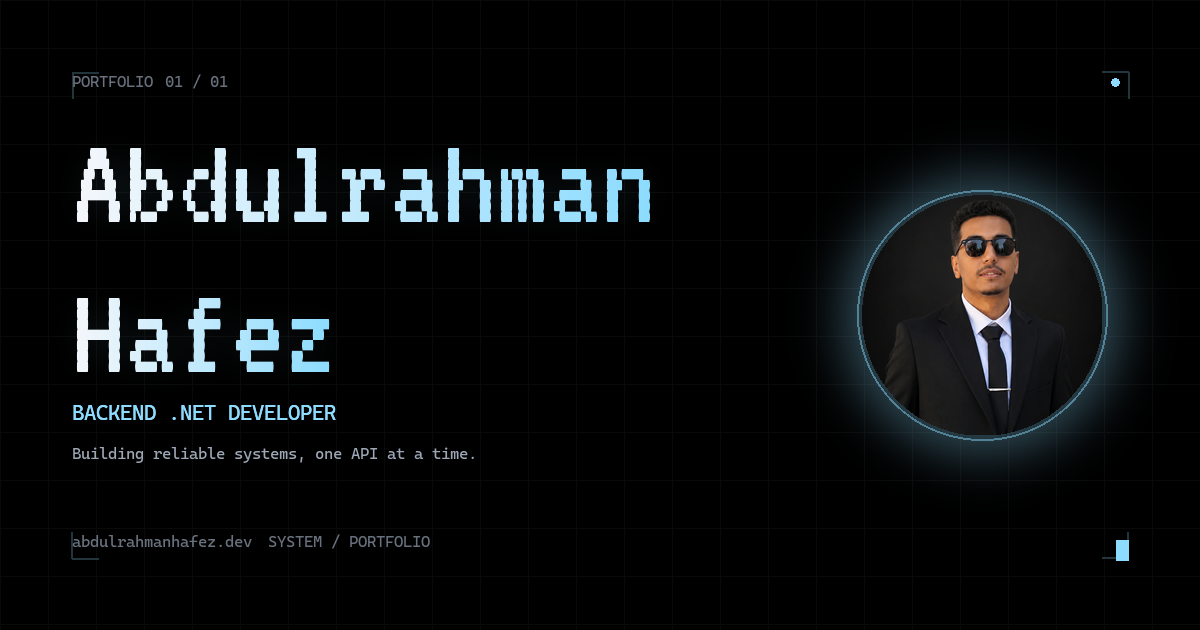
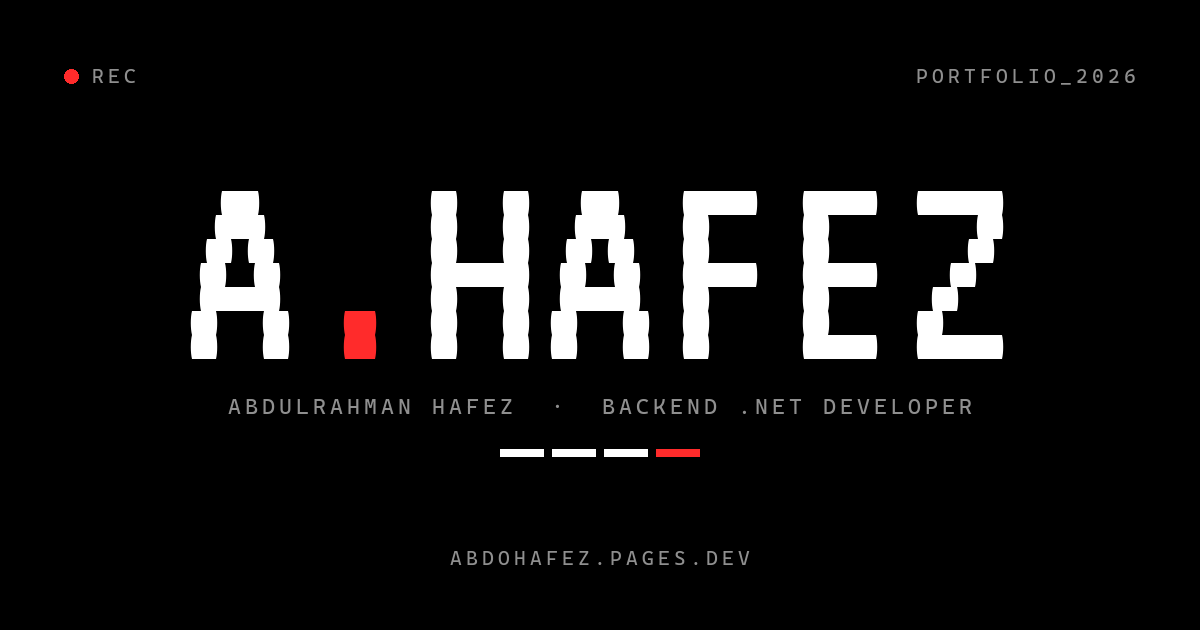
feat: Signal minimal social preview image
Centered A.HAFEZ wordmark with a red dot in the Pure signal palette,
correct production domain, and a center-safe layout for square crops.
Regenerated by scripts/generate-og-image.py (144 KB -> 18 KB).

diff --git a/scripts/generate-og-image.py b/scripts/generate-og-image.py
@@ -1,278 +1,125 @@
 """
 Generate public/og-image.png — a 1200x630 social preview card.
 
-Design follows the portfolio's "Retro Digital Interface" language:
-- Pure black background with a subtle 48px grid (white ~4% opacity)
-- VT323 dot-matrix typography for the name
-- Large display name with a white -> cyan horizontal gradient (matching --color-accent: #8ddcff)
-- Mono uppercase labels for the terminal feel
-- Circular profile picture (face-centered crop) with a soft cyan glow ring
+Design: "Signal minimal" from the Pure signal palette (black, white, one red).
+- Pure black background
+- Centered VT323 wordmark "A.HAFEZ" with the dot in signal red
+- Mono uppercase labels (rec indicator, role line, domain)
+- Everything important sits in the center so square crops (WhatsApp,
+  Slack, X thumbnails) still show the name
+
+Run from the repo root:  python scripts/generate-og-image.py
 """
 
-from PIL import Image, ImageDraw, ImageFont, ImageFilter
+from PIL import Image, ImageDraw, ImageFont
 
 # ---------------------------------------------------------------------------
 # Config
 # ---------------------------------------------------------------------------
 WIDTH, HEIGHT = 1200, 630
-BG = (0, 0, 0, 255)
-ACCENT = "#8ddcff"
-WHITE = "#f4f7fb"
-TEXT_SECONDARY = "#9da7b5"
-TEXT_MUTED = "#68717d"
+BG = "#000000"
+WHITE = "#ffffff"
+MUTED = "#8f8f8f"
+RED = "#ff2b2b"
 
-MARGIN = 72
-GRID = 48
+MARGIN = 64
 
 VT323_PATH = "scripts/VT323-Regular.ttf"
 MONO_PATH = r"C:\Windows\Fonts\CascadiaMono.ttf"
-PROFILE_PATH = "public/profile-picture.png"
 
 OUT_PATH = "public/og-image.png"
 
-
-def rgb_hex(hex_str: str):
-    hex_str = hex_str.lstrip("#")
-    return tuple(int(hex_str[i : i + 2], 16) for i in (0, 2, 4))
+WORDMARK = [("A", WHITE), (".", RED), ("HAFEZ", WHITE)]
+ROLE_LINE = "ABDULRAHMAN HAFEZ  ·  BACKEND .NET DEVELOPER"
+DOMAIN = "ABDOHAFEZ.PAGES.DEV"
 
 
 def font(path: str, size: int) -> ImageFont.FreeTypeFont:
     return ImageFont.truetype(path, size)
 
 
-def text_width(draw: ImageDraw.ImageDraw, text: str, f: ImageFont.FreeTypeFont) -> int:
-    bbox = draw.textbbox((0, 0), text, font=f)
-    return bbox[2] - bbox[0]
+def tracked_width(draw: ImageDraw.ImageDraw, text: str, f, tracking: int) -> int:
+    widths = [draw.textlength(ch, font=f) for ch in text]
+    return int(sum(widths) + tracking * (len(text) - 1))
 
 
-def render_text_measure(image: Image.Image, draw: ImageDraw.ImageDraw, xy, text, f: ImageFont.FreeTypeFont, fill):
-    """Draw monochrome text and return its ink bounding box (x0,y0,x1,y1).
-
-    Used for precise vertical layout so elements never overlap regardless of
-    per-font metrics (ascent/descent bearings differ across fonts).
-    """
+def draw_tracked(draw: ImageDraw.ImageDraw, xy, text: str, f, fill, tracking: int):
     x, y = xy
-    draw.text((x, y), text, font=f, fill=fill)
-    layer = Image.new("L", (WIDTH, HEIGHT), 0)
-    ld = ImageDraw.Draw(layer)
-    ld.text((x, y), text, font=f, fill=255)
-    bbox = layer.getbbox()
-    return bbox if bbox else (x, y, x, y)
+    for ch in text:
+        draw.text((x, y), ch, font=f, fill=fill)
+        x += draw.textlength(ch, font=f) + tracking
 
 
-def draw_gradient_text(
-    image: Image.Image,
-    draw: ImageDraw.ImageDraw,
-    xy,
-    text: str,
-    f: ImageFont.FreeTypeFont,
-    start_color,
-    end_color,
-):
-    """Render text filled with a left-to-right gradient and return ink bbox."""
-    x, y = xy
-    mask_layer = Image.new("L", (WIDTH, HEIGHT), 0)
-    mask_draw = ImageDraw.Draw(mask_layer)
-    mask_draw.text((x, y), text, font=f, fill=255)
-    bbox = mask_layer.getbbox()
-    if not bbox:
-        return None
-    bx0, by0, bx1, by1 = bbox
-    tw, th = bx1 - bx0, by1 - by0
-
-    # Horizontal gradient
-    gradient = Image.new("RGB", (tw, th))
-    gd = ImageDraw.Draw(gradient)
-    for i in range(tw):
-        t = i / max(tw - 1, 1)
-        r = int(start_color[0] + (end_color[0] - start_color[0]) * t)
-        g = int(start_color[1] + (end_color[1] - start_color[1]) * t)
-        b = int(start_color[2] + (end_color[2] - start_color[2]) * t)
-        gd.line([(i, 0), (i, th)], fill=(r, g, b))
-
-    # Mask only the text region
-    text_mask = mask_layer.crop((bx0, by0, bx1, by1))
-    text_rgba = Image.new("RGBA", (tw, th), (0, 0, 0, 0))
-    text_rgba.paste(gradient, (0, 0), text_mask)
-    image.alpha_composite(text_rgba, (bx0, by0))
-    return bbox
+def draw_label(draw, text, f, fill, tracking, *, x=None, y=0, anchor="left"):
+    width = tracked_width(draw, text, f, tracking)
+    if anchor == "center":
+        x = (WIDTH - width) // 2
+    elif anchor == "right":
+        x = WIDTH - MARGIN - width
+    draw_tracked(draw, (x, y), text, f, fill, tracking)
+    return width
 
 
-def draw_grid(draw: ImageDraw.ImageDraw):
-    # Opaque dark gray (approx 4% white) so the grid stays subtle after
-    # flattening to RGB without relying on alpha compositing.
-    for x in range(0, WIDTH, GRID):
-        draw.line([(x, 0), (x, HEIGHT)], fill=(10, 10, 10, 255))
-    for y in range(0, HEIGHT, GRID):
-        draw.line([(0, y), (WIDTH, y)], fill=(10, 10, 10, 255))
+def main():
+    image = Image.new("RGB", (WIDTH, HEIGHT), BG)
+    draw = ImageDraw.Draw(image)
+
+    label = font(MONO_PATH, 20)
+    tracking = 4
+
+    # Top-left: rec indicator
+    dot_r = 7
+    cy = MARGIN + 12
+    draw.ellipse(
+        (MARGIN, cy - dot_r, MARGIN + dot_r * 2, cy + dot_r), fill=RED
+    )
+    draw_label(draw, "REC", label, MUTED, tracking, x=MARGIN + dot_r * 2 + 14, y=MARGIN)
+
+    # Top-right: build tag
+    draw_label(draw, "PORTFOLIO_2026", label, MUTED, tracking, y=MARGIN, anchor="right")
+
+    # Center wordmark, fitted to ~70% of the width
+    target = int(WIDTH * 0.7)
+    size = 300
+    while True:
+        wordmark_font = font(VT323_PATH, size)
+        total = sum(draw.textlength(part, font=wordmark_font) for part, _ in WORDMARK)
+        if total <= target or size <= 120:
+            break
+        size -= 4
+
+    # Vertically center the ink of the wordmark, nudged up for the lines below
+    full = "".join(part for part, _ in WORDMARK)
+    top, bottom = draw.textbbox((0, 0), full, font=wordmark_font)[1::2]
+    ink_h = bottom - top
+    y = (HEIGHT - ink_h) // 2 - top - 40
+    x = (WIDTH - total) / 2
+    for part, color in WORDMARK:
+        draw.text((x, y), part, font=wordmark_font, fill=color)
+        x += draw.textlength(part, font=wordmark_font)
+
+    ink_bottom = y + bottom
+
+    # Role line
+    role_font = font(MONO_PATH, 22)
+    role_y = ink_bottom + 34
+    draw_label(draw, ROLE_LINE, role_font, MUTED, 4, y=role_y, anchor="center")
+
+    # Signal bar: three white segments and one red
+    seg_w, seg_h, gap = 44, 8, 8
+    bar_w = seg_w * 4 + gap * 3
+    bx = (WIDTH - bar_w) // 2
+    by = role_y + 56
+    for i, color in enumerate([WHITE, WHITE, WHITE, RED]):
+        x0 = bx + i * (seg_w + gap)
+        draw.rectangle((x0, by, x0 + seg_w - 1, by + seg_h - 1), fill=color)
+
+    # Bottom: domain
+    draw_label(draw, DOMAIN, label, MUTED, tracking, y=HEIGHT - MARGIN - 20, anchor="center")
+
+    image.save(OUT_PATH, optimize=True)
+    print(f"Wrote {OUT_PATH} (wordmark {size}px)")
 
 
-def circular_profile(diameter: int) -> Image.Image:
-    """Return a face-centered circular crop of the profile picture."""
-    img = Image.open(PROFILE_PATH).convert("RGBA")
-    w, h = img.size
-    side = min(w, h)
-    left = (w - side) // 2
-    # Face sits in the middle vertical band (y ~0.33-0.66 of the source).
-    # Center the square crop on that band so the face is not in the lower
-    # third of the resulting circle.
-    top = max(0, int(h * 0.5) - side // 2)
-    top = min(top, h - side)
-    img = img.crop((left, top, left + side, top + side))
-    img = img.resize((diameter, diameter), Image.LANCZOS)
-
-    mask = Image.new("L", (diameter, diameter), 0)
-    md = ImageDraw.Draw(mask)
-    md.ellipse((0, 0, diameter, diameter), fill=255)
-
-    out = Image.new("RGBA", (diameter, diameter), (0, 0, 0, 0))
-    out.paste(img, (0, 0), mask)
-    return out
-
-
-# ---------------------------------------------------------------------------
-# Build canvas
-# ---------------------------------------------------------------------------
-canvas = Image.new("RGBA", (WIDTH, HEIGHT), BG)
-draw = ImageDraw.Draw(canvas)
-
-# Background: pure black with subtle grid
-draw.rectangle((0, 0, WIDTH, HEIGHT), fill=BG)
-draw_grid(draw)
-
-VT = font(VT323_PATH, 132)
-MONO_SM = font(MONO_PATH, 16)
-MONO_MD = font(MONO_PATH, 21)
-
-# ---------------------------------------------------------------------------
-# Frame: terminal-style corner accents
-# ---------------------------------------------------------------------------
-frame_color = (34, 53, 61, 255)  # opaque approx of cyan @ ~24% over black
-L = 26  # corner arm length
-W = 2   # arm thickness
-
-# Top-left
-draw.line([(MARGIN, MARGIN), (MARGIN + L, MARGIN)], fill=frame_color, width=W)
-draw.line([(MARGIN, MARGIN), (MARGIN, MARGIN + L)], fill=frame_color, width=W)
-# Top-right
-draw.line([(WIDTH - MARGIN, MARGIN), (WIDTH - MARGIN - L, MARGIN)], fill=frame_color, width=W)
-draw.line([(WIDTH - MARGIN, MARGIN), (WIDTH - MARGIN, MARGIN + L)], fill=frame_color, width=W)
-# Bottom-left
-draw.line([(MARGIN, HEIGHT - MARGIN), (MARGIN + L, HEIGHT - MARGIN)], fill=frame_color, width=W)
-draw.line([(MARGIN, HEIGHT - MARGIN), (MARGIN, HEIGHT - MARGIN - L)], fill=frame_color, width=W)
-# Bottom-right
-draw.line([(WIDTH - MARGIN, HEIGHT - MARGIN), (WIDTH - MARGIN - L, HEIGHT - MARGIN)], fill=frame_color, width=W)
-draw.line([(WIDTH - MARGIN, HEIGHT - MARGIN), (WIDTH - MARGIN, HEIGHT - MARGIN - L)], fill=frame_color, width=W)
-
-# ---------------------------------------------------------------------------
-# Eyebrow (top-left)
-# ---------------------------------------------------------------------------
-draw.text((MARGIN, MARGIN), "PORTFOLIO", font=MONO_SM, fill=rgb_hex(TEXT_MUTED))
-sw = text_width(draw, "PORTFOLIO", MONO_SM)
-draw.text((MARGIN + sw + 12, MARGIN), "01 / 01", font=MONO_SM, fill=rgb_hex(TEXT_MUTED))
-
-# Top-right status dot
-dot_r = 4
-dot_x = WIDTH - MARGIN - L // 2
-dot_y = MARGIN + 10
-draw.ellipse(
-    (dot_x - dot_r, dot_y - dot_r, dot_x + dot_r, dot_y + dot_r),
-    fill=rgb_hex(ACCENT),
-)
-
-# ---------------------------------------------------------------------------
-# Profile picture (right side, vertically centered)
-# ---------------------------------------------------------------------------
-diameter = 240
-profile_x = WIDTH - MARGIN - L - diameter  # right-aligned inside frame
-profile_y = HEIGHT // 2 - diameter // 2
-
-profile = circular_profile(diameter)
-
-# Soft glow ring behind the circle
-glow = Image.new("RGBA", (WIDTH, HEIGHT), (0, 0, 0, 0))
-gd = ImageDraw.Draw(glow)
-glow_ring = 36
-gd.ellipse(
-    (profile_x - glow_ring, profile_y - glow_ring,
-     profile_x + diameter + glow_ring, profile_y + diameter + glow_ring),
-    fill=(141, 220, 255, 90),
-)
-glow = glow.filter(ImageFilter.GaussianBlur(30))
-canvas.alpha_composite(glow)
-
-# Thin cyan ring
-ring_offset = 5
-draw.ellipse(
-    (
-        profile_x - ring_offset,
-        profile_y - ring_offset,
-        profile_x + diameter + ring_offset,
-        profile_y + diameter + ring_offset,
-    ),
-    outline=(83, 129, 150, 255),
-    width=2,
-)
-
-canvas.alpha_composite(profile, (profile_x, profile_y))
-
-# ---------------------------------------------------------------------------
-# Name (large display, white -> cyan gradient) on the left
-# ---------------------------------------------------------------------------
-name1 = "Abdulrahman"
-name2 = "Hafez"
-name_x = MARGIN
-name_y = 116
-line_gap = 150
-
-# Soft glow behind the name
-name_glow = Image.new("RGBA", (WIDTH, HEIGHT), (0, 0, 0, 0))
-ngd = ImageDraw.Draw(name_glow)
-ngd.text((name_x, name_y), name1, font=VT, fill=(141, 220, 255, 255))
-ngd.text((name_x, name_y + line_gap), name2, font=VT, fill=(141, 220, 255, 255))
-# Measure the "Hafez" line box so we can place other elements below its real ink
-hafez_layer = Image.new("L", (WIDTH, HEIGHT), 0)
-hd = ImageDraw.Draw(hafez_layer)
-hd.text((name_x, name_y + line_gap), name2, font=VT, fill=255)
-hafez_bbox = hafez_layer.getbbox()
-name_glow = name_glow.filter(ImageFilter.GaussianBlur(18))
-r_ch, g_ch, b_ch, a_ch = name_glow.split()
-a_scaled = a_ch.point(lambda a: int(a * 0.22))
-canvas.alpha_composite(Image.merge("RGBA", (r_ch, g_ch, b_ch, a_scaled)))
-
-start_c = rgb_hex(WHITE)
-end_c = rgb_hex(ACCENT)
-draw_gradient_text(canvas, draw, (name_x, name_y), name1, VT, start_c, end_c)
-draw_gradient_text(canvas, draw, (name_x, name_y + line_gap), name2, VT, start_c, end_c)
-
-# ---------------------------------------------------------------------------
-# Role label (cyan mono) + tagline — placed below measured "Hafez" ink
-# ---------------------------------------------------------------------------
-GAP = 28
-role_y = hafez_bbox[3] + GAP
-draw.text((name_x, role_y), "BACKEND .NET DEVELOPER", font=MONO_MD, fill=rgb_hex(ACCENT))
-role_bbox = render_text_measure(canvas, draw, (name_x, role_y), "BACKEND .NET DEVELOPER", MONO_MD, rgb_hex(ACCENT))
-
-tagline_y = role_bbox[3] + GAP - 4
-tagline = "Building reliable systems, one API at a time."
-draw.text((name_x, tagline_y), tagline, font=MONO_SM, fill=rgb_hex(TEXT_SECONDARY))
-
-# ---------------------------------------------------------------------------
-# Footer (bottom-left) + terminal cursor (bottom-right)
-# ---------------------------------------------------------------------------
-footer_y = HEIGHT - MARGIN - 26
-footer1 = "abdulrahmanhafez.dev"
-draw.text((MARGIN, footer_y), footer1, font=MONO_SM, fill=rgb_hex(TEXT_MUTED))
-fw = text_width(draw, footer1, MONO_SM)
-draw.text((MARGIN + fw + 16, footer_y), "SYSTEM / PORTFOLIO", font=MONO_SM, fill=rgb_hex(TEXT_MUTED))
-
-cursor_w, cursor_h = 12, 20
-curs_x = WIDTH - MARGIN - cursor_w
-curs_y = HEIGHT - MARGIN - cursor_h + 2
-draw.rectangle((curs_x, curs_y, curs_x + cursor_w, curs_y + cursor_h), fill=rgb_hex(ACCENT))
-
-# ---------------------------------------------------------------------------
-# Save
-# ---------------------------------------------------------------------------
-canvas.convert("RGB").save(OUT_PATH, "PNG")
-print(f"Saved {OUT_PATH}  ({WIDTH}x{HEIGHT})")
+if __name__ == "__main__":
+    main()
